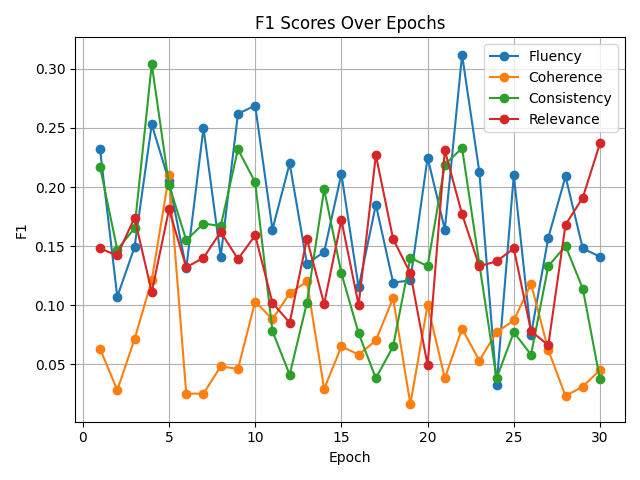
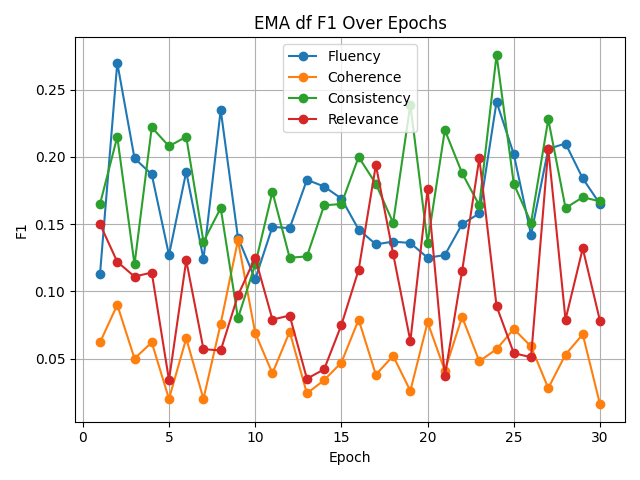
Minor changes

diff --git a/src/opro.py b/src/opro.py
@@ -20,6 +20,13 @@ def plot_metric_over_epochs(metric_values: dict, save_dir="Plots"):
   :param save_dir: Directory where the plots will be saved.
   """
   os.makedirs(save_dir, exist_ok=True)
+
+  def ema(series, alpha=0.3):
+    smoothed = [series[0]]
+    for i in range(1, len(series)):
+      smoothed.append(alpha * series[i] + (1 - alpha) * smoothed[-1])
+    return smoothed
+
   metric_types = ["f1", "accuracy", "mean_diff"]
   eval_metrics = list(metric_values.keys())  # ['fluency', 'coherence', ...]
 
@@ -30,9 +37,10 @@ def plot_metric_over_epochs(metric_values: dict, save_dir="Plots"):
     plt.figure()
     for eval_metric in eval_metrics:
       values = metric_values[eval_metric][metric_type]
-      plt.plot(epochs, values, marker='o', label=eval_metric.capitalize())
+      smoothed_values = ema(values)
+      plt.plot(epochs, smoothed_values, marker='o', label=eval_metric.capitalize())
 
-    plt.title(f"{metric_type.replace('_', ' ').capitalize()} Scores Over Epochs")
+    plt.title(f"EMA df {metric_type.replace('_', ' ').capitalize()} Over Epochs")
     plt.xlabel("Epoch")
     plt.ylabel(metric_type.replace('_', ' ').capitalize())
     plt.grid(True)
@@ -51,6 +59,9 @@ def run_opro(
   num_epochs: int = 30,
   rater_llm_name: str = "meta-llama/llama-3-8b-instruct",
   reco_llm_name: str = "meta-llama/llama-3-8b-instruct",
+  calls_per_minute: int = 120,
+  max_workers: int = 10,
+  num_examples: int = 100,
 ) -> dict:
 
   ## Top-K prompts
@@ -68,7 +79,11 @@ def run_opro(
                                              rater_llm_name=rater_llm_name)
     print("Generated instruction")
 
-    evals = call_rater_llm_prompt(instruction=instruction, file_path=file_path, rater_llm_name=rater_llm_name)
+    evals = call_rater_llm_prompt(
+      instruction=instruction, file_path=file_path,
+      rater_llm_name=rater_llm_name, max_workers=max_workers,
+      calls_per_minute=calls_per_minute, num_examples=num_examples
+    )
     print("Generated evals")
 
     metrics = calculate_metrics(evals, file_path=file_path)
@@ -85,14 +100,25 @@ def run_opro(
     processed_reply = process_reply(instruction=instruction, recommendation=recommendation, heap=top_k_prompts, metrics=metrics)
     print("Processed Reply")
 
-  for metric in metric_names:
-    plot_metric_over_epochs(metric_values=metric_history)
+  # for metric in metric_names:
+  #   plot_metric_over_epochs(metric_values=metric_history)
 
-  return metric_history
+  return {
+    "metric_histories": metric_history,
+    "top_k_prompts": top_k_prompts,
+  }
 
 if __name__ == "__main__":
   rater_llm_name = "meta-llama/llama-3-8b-instruct"
   reco_llm_name = "meta-llama/llama-3-8b-instruct"
   filepath = "Dataset/dataset/df_M11_sampled.parquet"
-  opro_results = run_opro(file_path=filepath, top_k=10, num_epochs=30
-                          , rater_llm_name=rater_llm_name, reco_llm_name=reco_llm_name)
+  opro_results = run_opro(file_path=filepath, top_k=5, num_epochs=10,
+                          rater_llm_name=rater_llm_name, reco_llm_name=reco_llm_name, calls_per_minute=120, max_workers=10, num_examples=100)
+
+  for i, item in enumerate(opro_results["top_k_prompts"][:3], 1):
+    print(f"\n--- Top {i} Prompt ---")
+    print(f"Instruction: {item['instruction']}")
+    print("Metrics:")
+    for metric, value in item['metrics'].items():
+      print(f"  {metric}: {value}")
+    print(f"Recommendation: {item['recommendation']}")

diff --git a/src/TopK_Heap/top_k.py b/src/TopK_Heap/top_k.py
@@ -33,3 +33,7 @@ class TopKHeap:
       avg = (accuracy + f1) / 2
       scores.append(avg)
     return sum(scores) / len(scores) if len(scores) else 0
+
+  def __getitem__(self, index):
+    topk = self.get_topK()
+    return topk[index]
